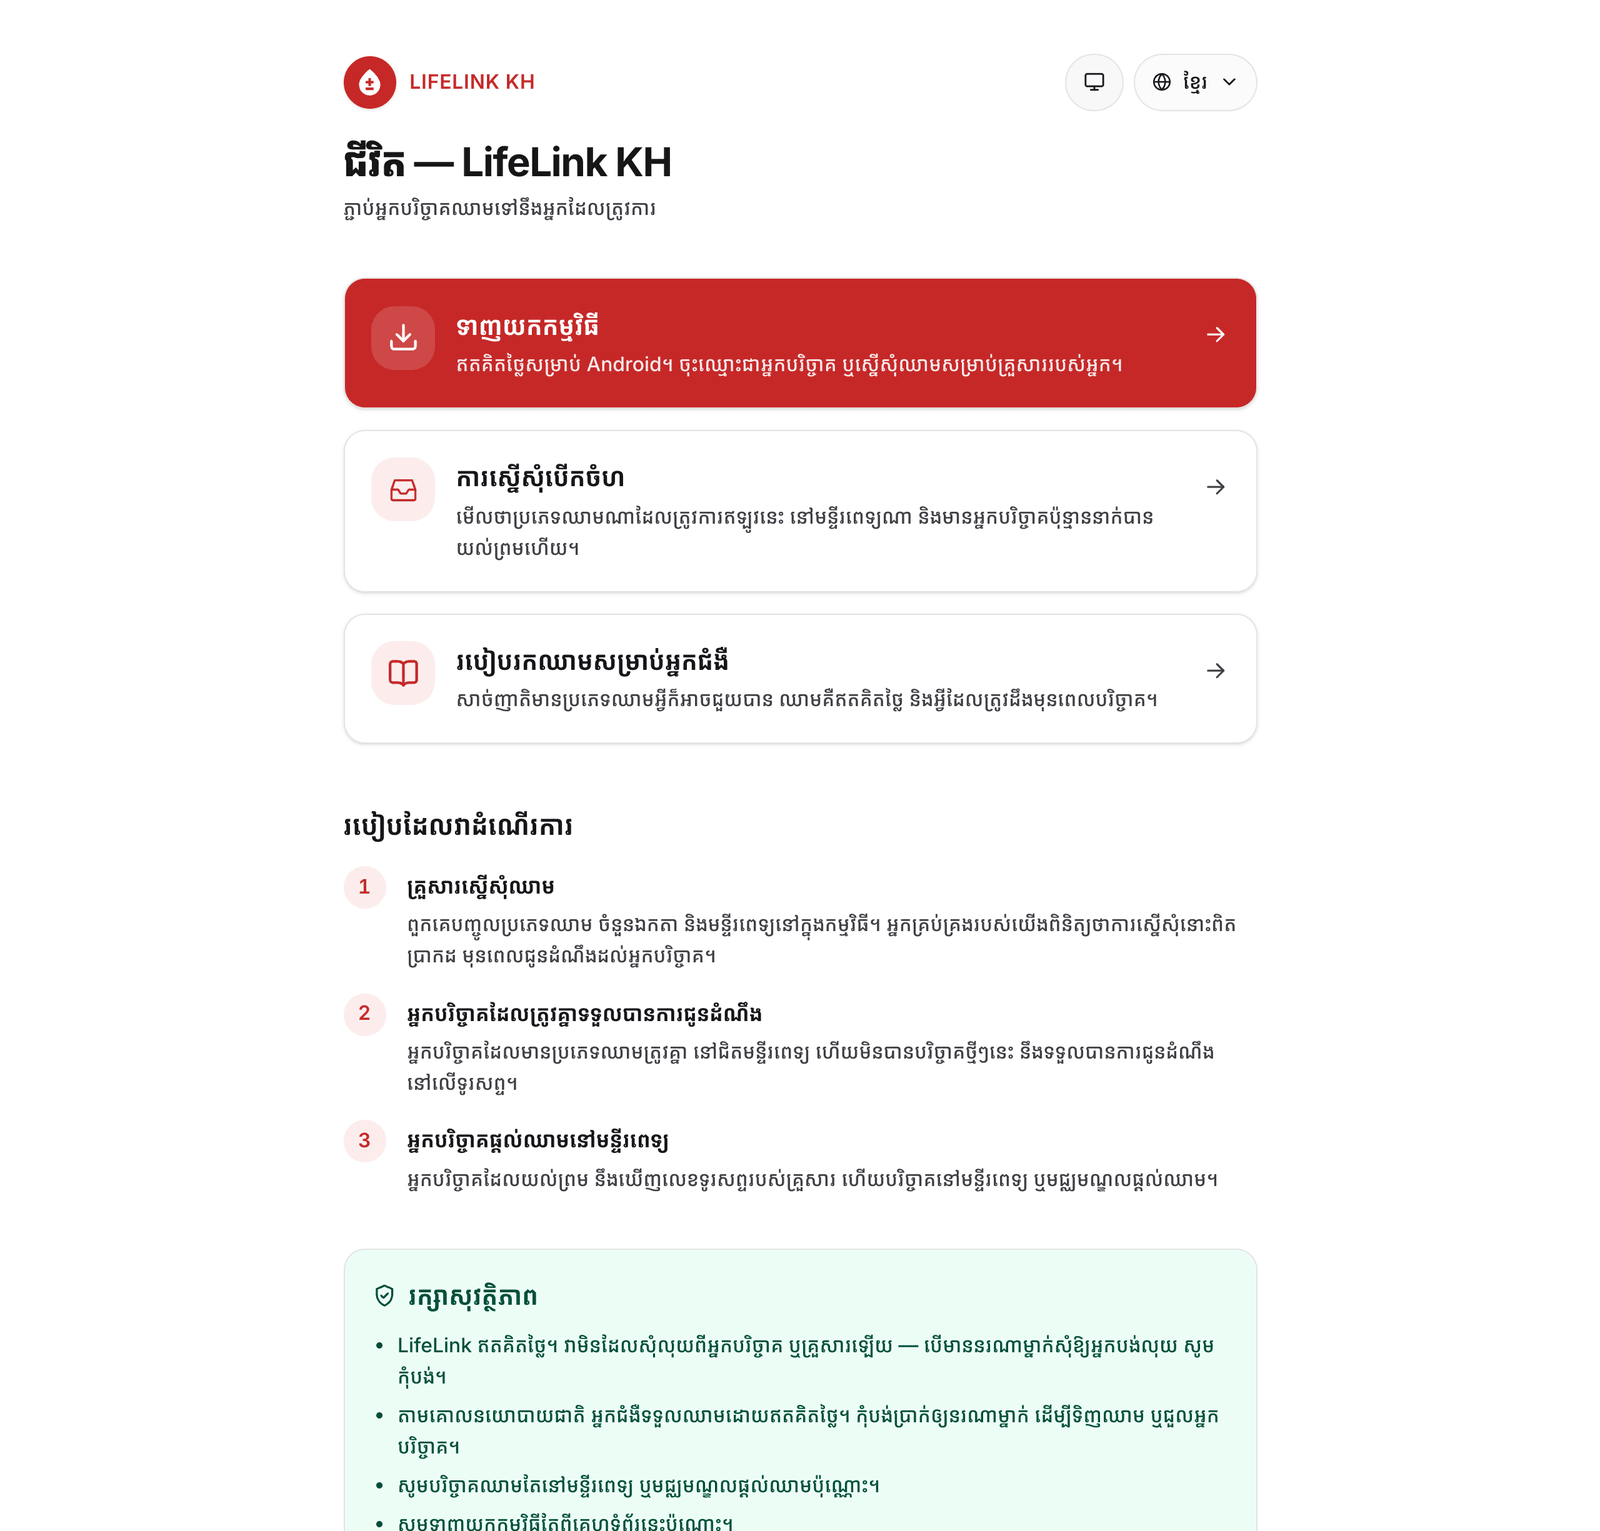
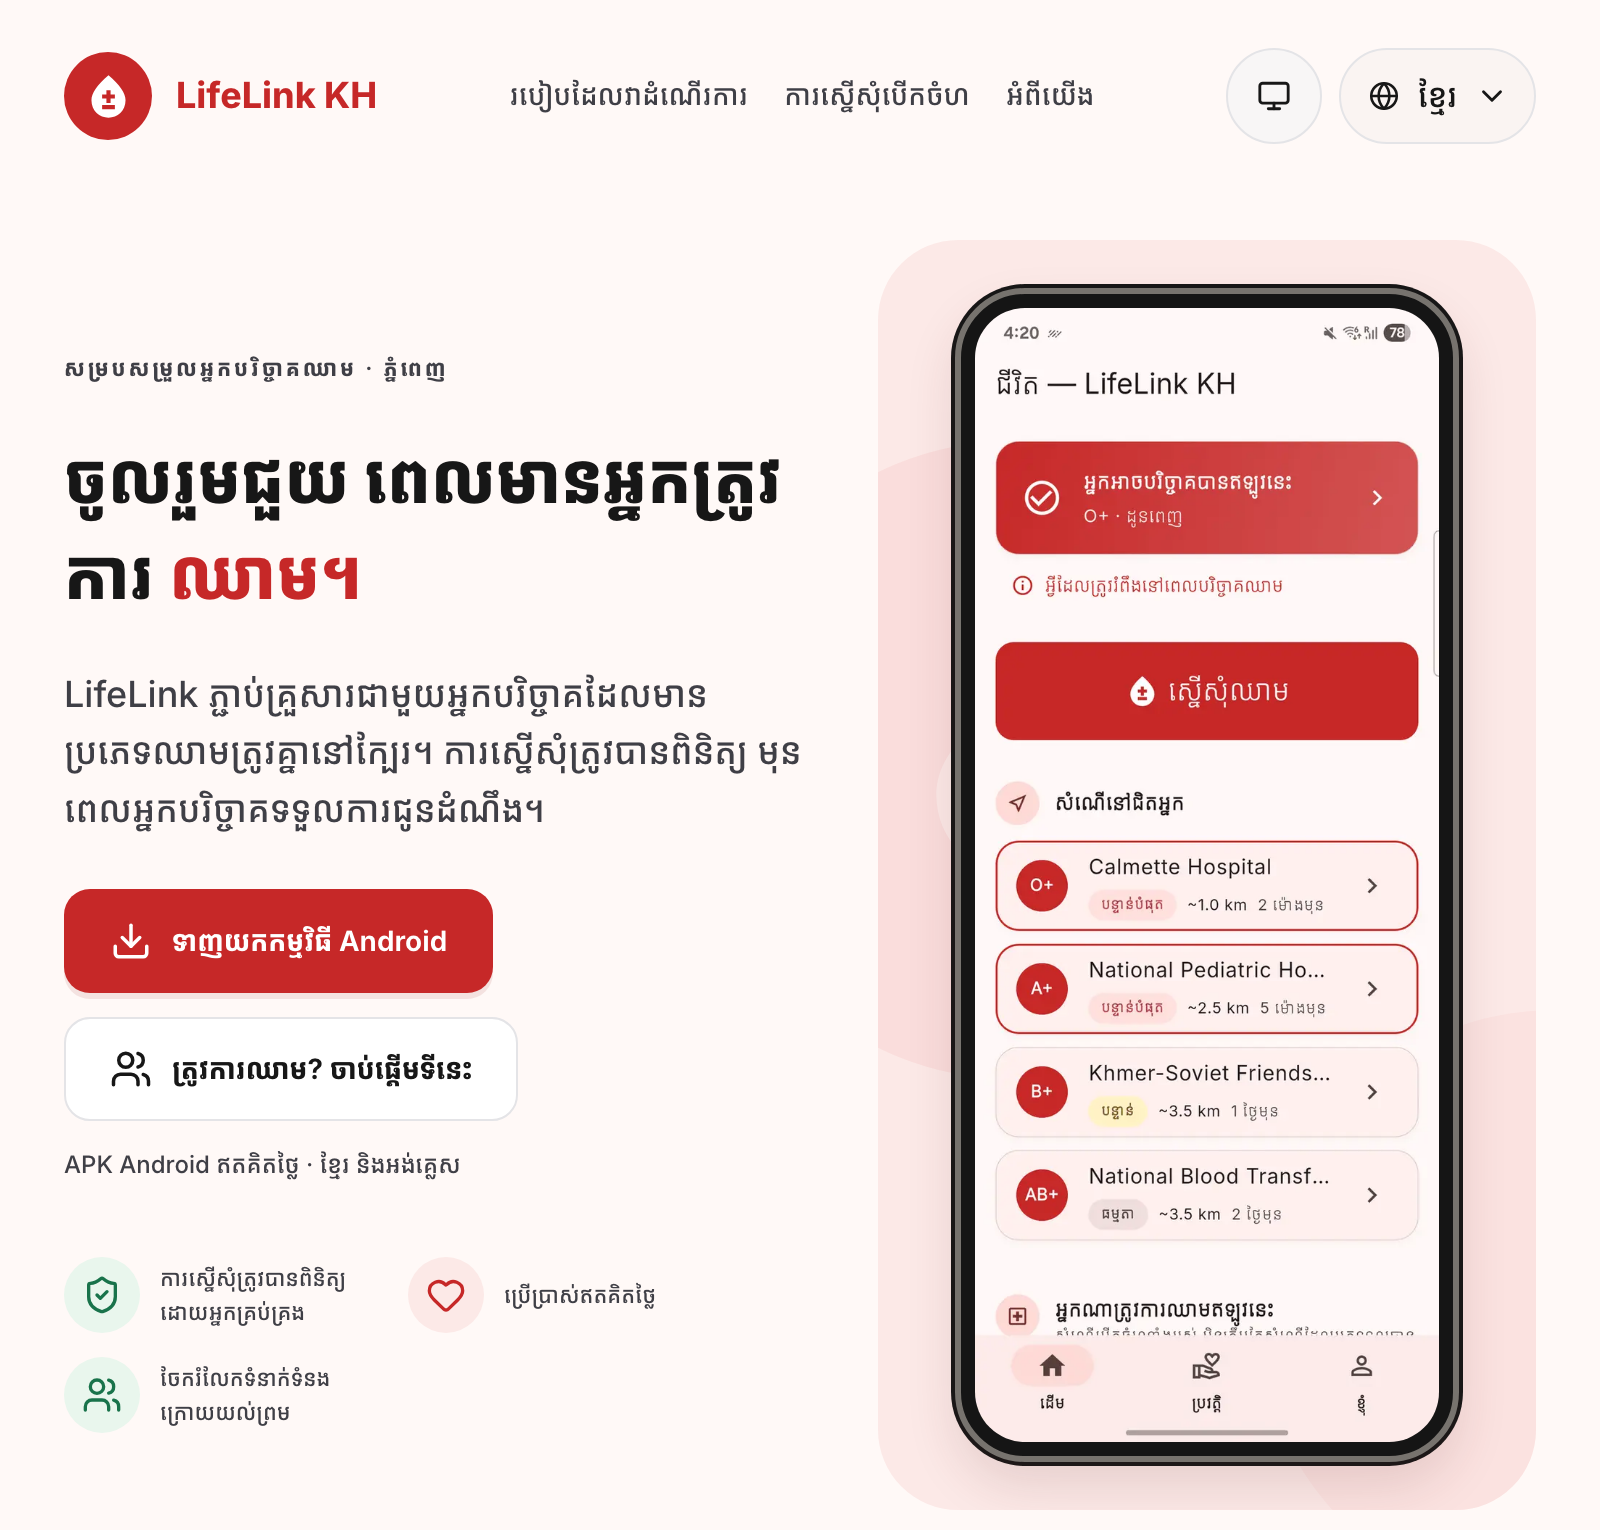
docs: README front-door screenshot shows the redesigned home page
landing-km.png retaken from the production build in light mode at
800x765 @2x, the same frame as before. The board screenshots stay:
that page did not change in the redesign, and the old ones show more
requests than the emulator seed has.

diff --git a/README.md b/README.md
@@ -33,7 +33,7 @@ Anyone can read it — no account, no login. Khmer is the default, because the u
 | | |
 |---|---|
 | ![The same board in English](docs/assets/screens/board-public-en.png) | ![The front door](docs/assets/screens/landing-km.png) |
-| **The same board, one tap later.** Every string in both clients ships in Khmer and English. | **The front door.** Get the app first, the board one card below, and the privacy and account-deletion pages. |
+| **The same board, one tap later.** Every string in both clients ships in Khmer and English. | **The front door.** Download the Android app first; a family that needs blood starts one button below. The phone beside it is the real app. |
 
 ## The admin portal
 
